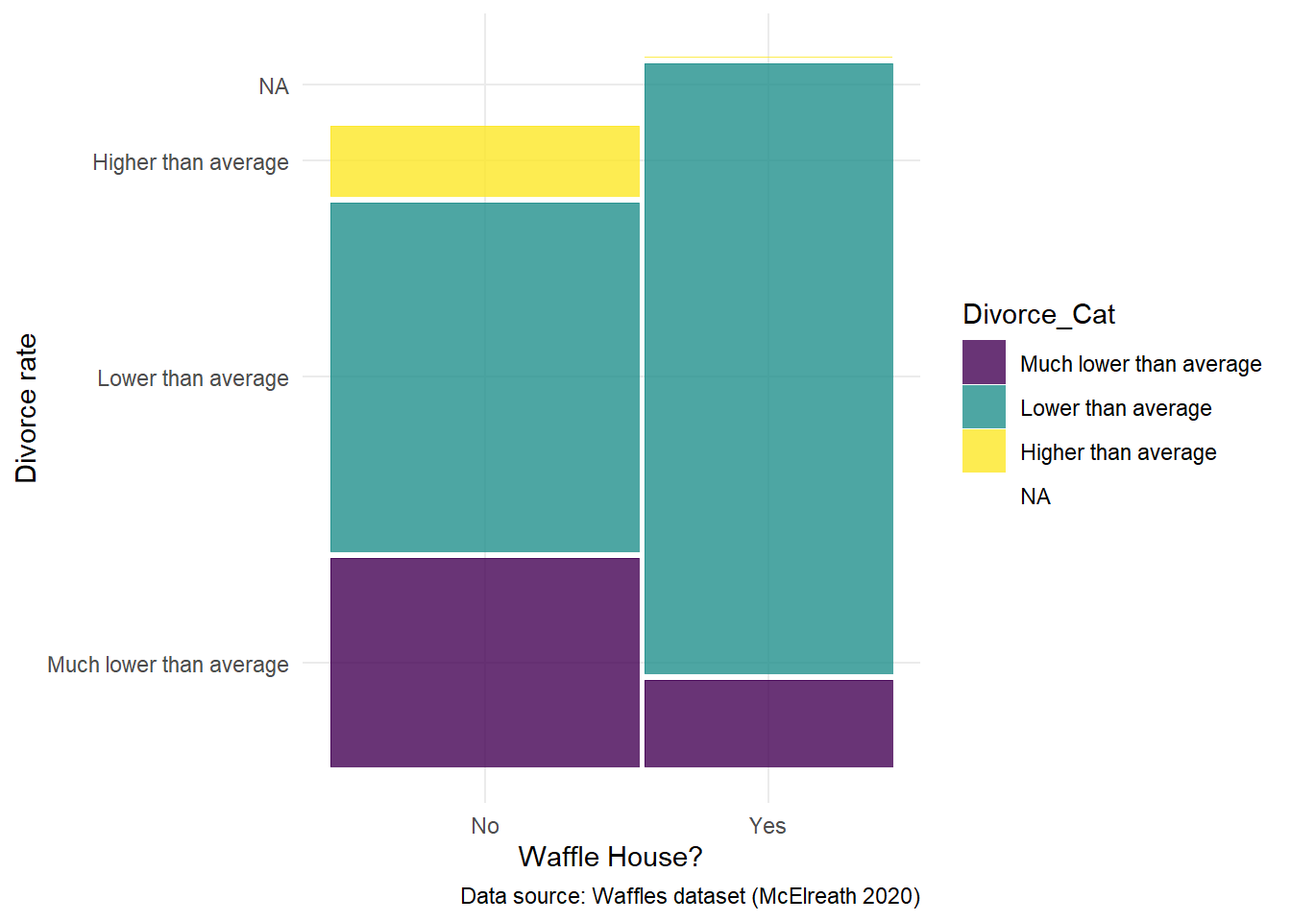
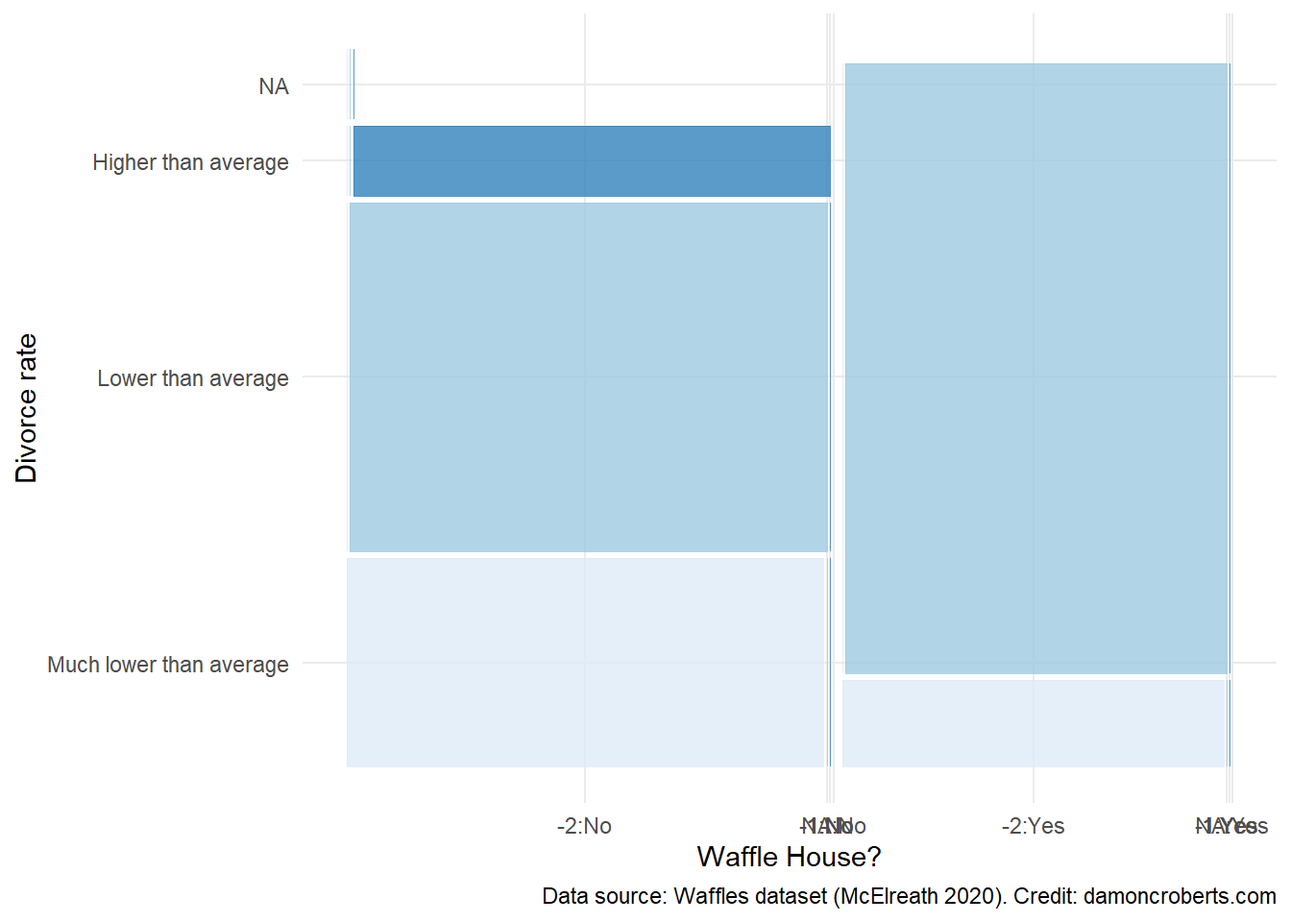
fix some labels

diff --git a/_book/docs/12_bivariate_expectations.html b/_book/docs/12_bivariate_expectations.html
@@ -392,7 +392,7 @@ A[Waffle Houses] --&gt; B[Divorce]
 <div class="sourceCode cell-code" id="cb1"><pre class="sourceCode r code-with-copy"><code class="sourceCode r"><span id="cb1-1"><a href="#cb1-1" aria-hidden="true" tabindex="-1"></a>waffle_cat <span class="sc">%&gt;%</span> <span class="co"># grab the cleaned nes dataset from above</span></span>
 <span id="cb1-2"><a href="#cb1-2" aria-hidden="true" tabindex="-1"></a>    <span class="fu">select</span>( <span class="co"># grab the following columns</span></span>
 <span id="cb1-3"><a href="#cb1-3" aria-hidden="true" tabindex="-1"></a>        WaffleHouses_Binary,</span>
-<span id="cb1-4"><a href="#cb1-4" aria-hidden="true" tabindex="-1"></a>        Divorce</span>
+<span id="cb1-4"><a href="#cb1-4" aria-hidden="true" tabindex="-1"></a>        Divorce_Cat</span>
 <span id="cb1-5"><a href="#cb1-5" aria-hidden="true" tabindex="-1"></a>    ) <span class="sc">%&gt;%</span></span>
 <span id="cb1-6"><a href="#cb1-6" aria-hidden="true" tabindex="-1"></a>    <span class="fu">datasummary_skim</span>(</span>
 <span id="cb1-7"><a href="#cb1-7" aria-hidden="true" tabindex="-1"></a>        <span class="at">data =</span> ., <span class="co"># use the dataset linked with the pipe operators</span></span>
@@ -449,14 +449,14 @@ A[Waffle Houses] --&gt; B[Divorce]
 </td>
   </tr>
   <tr>
-   <td style="text-align:left;"> Divorce </td>
-   <td style="text-align:right;"> 38 </td>
-   <td style="text-align:right;"> 0 </td>
-   <td style="text-align:right;"> 9.7 </td>
-   <td style="text-align:right;"> 1.8 </td>
-   <td style="text-align:right;"> 6.1 </td>
-   <td style="text-align:right;"> 9.8 </td>
-   <td style="text-align:right;"> 13.5 </td>
+   <td style="text-align:left;"> Divorce_Cat </td>
+   <td style="text-align:right;"> 4 </td>
+   <td style="text-align:right;"> 14 </td>
+   <td style="text-align:right;"> -0.3 </td>
+   <td style="text-align:right;"> 1.2 </td>
+   <td style="text-align:right;"> -2.0 </td>
+   <td style="text-align:right;"> -1.0 </td>
+   <td style="text-align:right;"> 1.0 </td>
    <td style="text-align:right;">  <svg xmlns="http://www.w3.org/2000/svg" xlink="http://www.w3.org/1999/xlink" class="svglite" width="48.00pt" height="12.00pt" viewbox="0 0 48.00 12.00"><defs><style type="text/css">
     .svglite line, .svglite polyline, .svglite polygon, .svglite path, .svglite rect, .svglite circle {
       fill: none;
@@ -469,7 +469,7 @@ A[Waffle Houses] --&gt; B[Divorce]
       white-space: pre;
     }
   </style></defs><rect width="100%" height="100%" style="stroke: none; fill: none;"></rect><defs><clippath id="cpMC4wMHw0OC4wMHwwLjAwfDEyLjAw"><rect x="0.00" y="0.00" width="48.00" height="12.00"></rect></clippath></defs><g clip-path="url(#cpMC4wMHw0OC4wMHwwLjAwfDEyLjAw)">
-</g><defs><clippath id="cpMC4wMHw0OC4wMHwyLjg4fDEyLjAw"><rect x="0.00" y="2.88" width="48.00" height="9.12"></rect></clippath></defs><g clip-path="url(#cpMC4wMHw0OC4wMHwyLjg4fDEyLjAw)"><rect x="1.18" y="8.85" width="6.01" height="2.81" style="stroke-width: 0.38; fill: #000000;"></rect><rect x="7.18" y="6.74" width="6.01" height="4.93" style="stroke-width: 0.38; fill: #000000;"></rect><rect x="13.19" y="6.03" width="6.01" height="5.63" style="stroke-width: 0.38; fill: #000000;"></rect><rect x="19.20" y="5.33" width="6.01" height="6.33" style="stroke-width: 0.38; fill: #000000;"></rect><rect x="25.20" y="3.22" width="6.01" height="8.44" style="stroke-width: 0.38; fill: #000000;"></rect><rect x="31.21" y="8.85" width="6.01" height="2.81" style="stroke-width: 0.38; fill: #000000;"></rect><rect x="37.21" y="8.14" width="6.01" height="3.52" style="stroke-width: 0.38; fill: #000000;"></rect><rect x="43.22" y="10.96" width="6.01" height="0.70" style="stroke-width: 0.38; fill: #000000;"></rect></g></svg>
+</g><defs><clippath id="cpMC4wMHw0OC4wMHwyLjg4fDEyLjAw"><rect x="0.00" y="2.88" width="48.00" height="9.12"></rect></clippath></defs><g clip-path="url(#cpMC4wMHw0OC4wMHwyLjg4fDEyLjAw)"><rect x="1.78" y="7.91" width="7.41" height="3.75" style="stroke-width: 0.38; fill: #000000;"></rect><rect x="9.19" y="3.69" width="7.41" height="7.98" style="stroke-width: 0.38; fill: #000000;"></rect><rect x="16.59" y="11.66" width="7.41" height="0.00" style="stroke-width: 0.38; fill: #000000;"></rect><rect x="24.00" y="11.66" width="7.41" height="0.00" style="stroke-width: 0.38; fill: #000000;"></rect><rect x="31.41" y="11.66" width="7.41" height="0.00" style="stroke-width: 0.38; fill: #000000;"></rect><rect x="38.81" y="3.22" width="7.41" height="8.44" style="stroke-width: 0.38; fill: #000000;"></rect></g></svg>
 </td>
   </tr>
 </tbody>
@@ -500,7 +500,7 @@ A[Waffle Houses] --&gt; B[Divorce]
 <span id="cb2-15"><a href="#cb2-15" aria-hidden="true" tabindex="-1"></a>waffle_cat<span class="sc">%&gt;%</span> <span class="co"># grab the waffles dataset</span></span>
 <span id="cb2-16"><a href="#cb2-16" aria-hidden="true" tabindex="-1"></a>    <span class="fu">ggplot</span>() <span class="sc">+</span> <span class="co"># make a plot with these data</span></span>
 <span id="cb2-17"><a href="#cb2-17" aria-hidden="true" tabindex="-1"></a>    <span class="fu">geom_histogram</span>( <span class="co"># specifically a histogram</span></span>
-<span id="cb2-18"><a href="#cb2-18" aria-hidden="true" tabindex="-1"></a>        <span class="fu">aes</span>(<span class="at">x =</span> Divorce), <span class="co"># put this column on the x-axis</span></span>
+<span id="cb2-18"><a href="#cb2-18" aria-hidden="true" tabindex="-1"></a>        <span class="fu">aes</span>(<span class="at">x =</span> Divorce_Cat), <span class="co"># put this column on the x-axis</span></span>
 <span id="cb2-19"><a href="#cb2-19" aria-hidden="true" tabindex="-1"></a>        <span class="at">fill =</span> <span class="st">"grey"</span>, <span class="co"># fill the bars with a grey color </span></span>
 <span id="cb2-20"><a href="#cb2-20" aria-hidden="true" tabindex="-1"></a>        <span class="at">color =</span> <span class="st">"black"</span> <span class="co"># make the lines of the bars black</span></span>
 <span id="cb2-21"><a href="#cb2-21" aria-hidden="true" tabindex="-1"></a>    ) <span class="sc">+</span> </span>
@@ -538,7 +538,7 @@ A[Waffle Houses] --&gt; B[Divorce]
 <div class="cell">
 <div class="sourceCode cell-code" id="cb3"><pre class="sourceCode r code-with-copy"><code class="sourceCode r"><span id="cb3-1"><a href="#cb3-1" aria-hidden="true" tabindex="-1"></a>waffle_cat <span class="sc">%&gt;%</span> <span class="co"># use the waffles_cat dataset...</span></span>
 <span id="cb3-2"><a href="#cb3-2" aria-hidden="true" tabindex="-1"></a>    <span class="fu">datasummary_crosstab</span>( <span class="co"># ... with the dataset, create a crosstab</span></span>
-<span id="cb3-3"><a href="#cb3-3" aria-hidden="true" tabindex="-1"></a>        WaffleHouses_Cat <span class="sc">~</span> Divorce_Cat, <span class="co">#... and use the two cleaned variables</span></span>
+<span id="cb3-3"><a href="#cb3-3" aria-hidden="true" tabindex="-1"></a>        WaffleHouses_Cat <span class="sc">~</span> Divorce_Cat_Labelled, <span class="co">#... and use the two cleaned variables</span></span>
 <span id="cb3-4"><a href="#cb3-4" aria-hidden="true" tabindex="-1"></a>        <span class="at">notes =</span> <span class="st">"Data source: Waffles dataset (McElreath 2020)"</span>, <span class="co"># add notes to table</span></span>
 <span id="cb3-5"><a href="#cb3-5" aria-hidden="true" tabindex="-1"></a>        <span class="at">data =</span> ., <span class="co"># and use the dataset connected by the pipe operator</span></span>
 <span id="cb3-6"><a href="#cb3-6" aria-hidden="true" tabindex="-1"></a>        <span class="at">output =</span> <span class="st">"cleaner_bivariate_crosstab.docx"</span> <span class="co"># store the table in this word document</span></span>
@@ -624,9 +624,9 @@ A[Waffle Houses] --&gt; B[Divorce]
 <span id="cb4-4"><a href="#cb4-4" aria-hidden="true" tabindex="-1"></a>            <span class="fu">aes</span>( <span class="co"># for the axes </span></span>
 <span id="cb4-5"><a href="#cb4-5" aria-hidden="true" tabindex="-1"></a>                <span class="at">x =</span> <span class="fu">product</span>( <span class="co"># on the x axis, plot the combination of the following variables</span></span>
 <span id="cb4-6"><a href="#cb4-6" aria-hidden="true" tabindex="-1"></a>                    WaffleHouses_Cat, </span>
-<span id="cb4-7"><a href="#cb4-7" aria-hidden="true" tabindex="-1"></a>                    Divorce_Cat</span>
+<span id="cb4-7"><a href="#cb4-7" aria-hidden="true" tabindex="-1"></a>                    Divorce_Cat_Labelled</span>
 <span id="cb4-8"><a href="#cb4-8" aria-hidden="true" tabindex="-1"></a>                ),</span>
-<span id="cb4-9"><a href="#cb4-9" aria-hidden="true" tabindex="-1"></a>                <span class="at">fill =</span> Divorce_Cat <span class="co"># fill it with the Divorce_Cat variable</span></span>
+<span id="cb4-9"><a href="#cb4-9" aria-hidden="true" tabindex="-1"></a>                <span class="at">fill =</span> WaffleHouses_Cat <span class="co"># fill it with the Divorce_Cat variable</span></span>
 <span id="cb4-10"><a href="#cb4-10" aria-hidden="true" tabindex="-1"></a>            ),</span>
 <span id="cb4-11"><a href="#cb4-11" aria-hidden="true" tabindex="-1"></a>        ) <span class="sc">+</span> </span>
 <span id="cb4-12"><a href="#cb4-12" aria-hidden="true" tabindex="-1"></a>        <span class="fu">theme_minimal</span>() <span class="sc">+</span> <span class="co"># add this theme</span></span>
@@ -635,8 +635,8 @@ A[Waffle Houses] --&gt; B[Divorce]
 <span id="cb4-15"><a href="#cb4-15" aria-hidden="true" tabindex="-1"></a>            <span class="fu">wes_palette</span>(<span class="st">"Moonrise3"</span>) <span class="co"># add these color palettes</span></span>
 <span id="cb4-16"><a href="#cb4-16" aria-hidden="true" tabindex="-1"></a>            ) <span class="sc">+</span> </span>
 <span id="cb4-17"><a href="#cb4-17" aria-hidden="true" tabindex="-1"></a>        <span class="fu">labs</span>( <span class="co"># adjust the labels to the plot</span></span>
-<span id="cb4-18"><a href="#cb4-18" aria-hidden="true" tabindex="-1"></a>            <span class="at">x =</span> <span class="st">"Waffle House?"</span>, <span class="co"># x-axis label</span></span>
-<span id="cb4-19"><a href="#cb4-19" aria-hidden="true" tabindex="-1"></a>            <span class="at">y =</span> <span class="st">"Divorce rate"</span>, <span class="co"># y-axis label</span></span>
+<span id="cb4-18"><a href="#cb4-18" aria-hidden="true" tabindex="-1"></a>            <span class="at">x =</span> <span class="st">"Divorce Rate"</span>, <span class="co"># x-axis label</span></span>
+<span id="cb4-19"><a href="#cb4-19" aria-hidden="true" tabindex="-1"></a>            <span class="at">y =</span> <span class="st">"Waffle House?"</span>, <span class="co"># y-axis label</span></span>
 <span id="cb4-20"><a href="#cb4-20" aria-hidden="true" tabindex="-1"></a>            <span class="at">caption =</span> <span class="st">"Data source: Waffles dataset (McElreath 2020)"</span> <span class="co"># caption</span></span>
 <span id="cb4-21"><a href="#cb4-21" aria-hidden="true" tabindex="-1"></a>        )</span></code><button title="Copy to Clipboard" class="code-copy-button"><i class="bi"></i></button></pre></div>
 </div>
@@ -678,7 +678,7 @@ C --&gt; B
 <span id="cb5-2"><a href="#cb5-2" aria-hidden="true" tabindex="-1"></a>    <span class="fu">select</span>( <span class="co"># grab the following columns</span></span>
 <span id="cb5-3"><a href="#cb5-3" aria-hidden="true" tabindex="-1"></a>        WaffleHouses_Binary,</span>
 <span id="cb5-4"><a href="#cb5-4" aria-hidden="true" tabindex="-1"></a>        Age_Cat,</span>
-<span id="cb5-5"><a href="#cb5-5" aria-hidden="true" tabindex="-1"></a>        Divorce,</span>
+<span id="cb5-5"><a href="#cb5-5" aria-hidden="true" tabindex="-1"></a>        Divorce_Cat,</span>
 <span id="cb5-6"><a href="#cb5-6" aria-hidden="true" tabindex="-1"></a>    ) <span class="sc">%&gt;%</span></span>
 <span id="cb5-7"><a href="#cb5-7" aria-hidden="true" tabindex="-1"></a>    <span class="fu">datasummary_skim</span>(</span>
 <span id="cb5-8"><a href="#cb5-8" aria-hidden="true" tabindex="-1"></a>        <span class="at">data =</span> ., <span class="co"># use the dataset linked with the pipe operators</span></span>
@@ -735,14 +735,14 @@ C --&gt; B
 </td>
   </tr>
   <tr>
-   <td style="text-align:left;"> Age </td>
+   <td style="text-align:left;"> Divorce_Cat </td>
    <td style="text-align:right;"> 4 </td>
-   <td style="text-align:right;"> 0 </td>
-   <td style="text-align:right;"> 4.5 </td>
-   <td style="text-align:right;"> 0.7 </td>
-   <td style="text-align:right;"> 3.0 </td>
-   <td style="text-align:right;"> 4.0 </td>
-   <td style="text-align:right;"> 6.0 </td>
+   <td style="text-align:right;"> 14 </td>
+   <td style="text-align:right;"> -0.3 </td>
+   <td style="text-align:right;"> 1.2 </td>
+   <td style="text-align:right;"> -2.0 </td>
+   <td style="text-align:right;"> -1.0 </td>
+   <td style="text-align:right;"> 1.0 </td>
    <td style="text-align:right;">  <svg xmlns="http://www.w3.org/2000/svg" xlink="http://www.w3.org/1999/xlink" class="svglite" width="48.00pt" height="12.00pt" viewbox="0 0 48.00 12.00"><defs><style type="text/css">
     .svglite line, .svglite polyline, .svglite polygon, .svglite path, .svglite rect, .svglite circle {
       fill: none;
@@ -755,31 +755,7 @@ C --&gt; B
       white-space: pre;
     }
   </style></defs><rect width="100%" height="100%" style="stroke: none; fill: none;"></rect><defs><clippath id="cpMC4wMHw0OC4wMHwwLjAwfDEyLjAw"><rect x="0.00" y="0.00" width="48.00" height="12.00"></rect></clippath></defs><g clip-path="url(#cpMC4wMHw0OC4wMHwwLjAwfDEyLjAw)">
-</g><defs><clippath id="cpMC4wMHw0OC4wMHwyLjg4fDEyLjAw"><rect x="0.00" y="2.88" width="48.00" height="9.12"></rect></clippath></defs><g clip-path="url(#cpMC4wMHw0OC4wMHwyLjg4fDEyLjAw)"><rect x="1.78" y="11.01" width="7.41" height="0.65" style="stroke-width: 0.38; fill: #000000;"></rect><rect x="9.19" y="3.22" width="7.41" height="8.44" style="stroke-width: 0.38; fill: #000000;"></rect><rect x="16.59" y="11.66" width="7.41" height="0.00" style="stroke-width: 0.38; fill: #000000;"></rect><rect x="24.00" y="5.82" width="7.41" height="5.85" style="stroke-width: 0.38; fill: #000000;"></rect><rect x="31.41" y="11.66" width="7.41" height="0.00" style="stroke-width: 0.38; fill: #000000;"></rect><rect x="38.81" y="10.36" width="7.41" height="1.30" style="stroke-width: 0.38; fill: #000000;"></rect></g></svg>
-</td>
-  </tr>
-  <tr>
-   <td style="text-align:left;"> Divorce </td>
-   <td style="text-align:right;"> 38 </td>
-   <td style="text-align:right;"> 0 </td>
-   <td style="text-align:right;"> 9.7 </td>
-   <td style="text-align:right;"> 1.8 </td>
-   <td style="text-align:right;"> 6.1 </td>
-   <td style="text-align:right;"> 9.8 </td>
-   <td style="text-align:right;"> 13.5 </td>
-   <td style="text-align:right;">  <svg xmlns="http://www.w3.org/2000/svg" xlink="http://www.w3.org/1999/xlink" class="svglite" width="48.00pt" height="12.00pt" viewbox="0 0 48.00 12.00"><defs><style type="text/css">
-    .svglite line, .svglite polyline, .svglite polygon, .svglite path, .svglite rect, .svglite circle {
-      fill: none;
-      stroke: #000000;
-      stroke-linecap: round;
-      stroke-linejoin: round;
-      stroke-miterlimit: 10.00;
-    }
-    .svglite text {
-      white-space: pre;
-    }
-  </style></defs><rect width="100%" height="100%" style="stroke: none; fill: none;"></rect><defs><clippath id="cpMC4wMHw0OC4wMHwwLjAwfDEyLjAw"><rect x="0.00" y="0.00" width="48.00" height="12.00"></rect></clippath></defs><g clip-path="url(#cpMC4wMHw0OC4wMHwwLjAwfDEyLjAw)">
-</g><defs><clippath id="cpMC4wMHw0OC4wMHwyLjg4fDEyLjAw"><rect x="0.00" y="2.88" width="48.00" height="9.12"></rect></clippath></defs><g clip-path="url(#cpMC4wMHw0OC4wMHwyLjg4fDEyLjAw)"><rect x="1.18" y="8.85" width="6.01" height="2.81" style="stroke-width: 0.38; fill: #000000;"></rect><rect x="7.18" y="6.74" width="6.01" height="4.93" style="stroke-width: 0.38; fill: #000000;"></rect><rect x="13.19" y="6.03" width="6.01" height="5.63" style="stroke-width: 0.38; fill: #000000;"></rect><rect x="19.20" y="5.33" width="6.01" height="6.33" style="stroke-width: 0.38; fill: #000000;"></rect><rect x="25.20" y="3.22" width="6.01" height="8.44" style="stroke-width: 0.38; fill: #000000;"></rect><rect x="31.21" y="8.85" width="6.01" height="2.81" style="stroke-width: 0.38; fill: #000000;"></rect><rect x="37.21" y="8.14" width="6.01" height="3.52" style="stroke-width: 0.38; fill: #000000;"></rect><rect x="43.22" y="10.96" width="6.01" height="0.70" style="stroke-width: 0.38; fill: #000000;"></rect></g></svg>
+</g><defs><clippath id="cpMC4wMHw0OC4wMHwyLjg4fDEyLjAw"><rect x="0.00" y="2.88" width="48.00" height="9.12"></rect></clippath></defs><g clip-path="url(#cpMC4wMHw0OC4wMHwyLjg4fDEyLjAw)"><rect x="1.78" y="7.91" width="7.41" height="3.75" style="stroke-width: 0.38; fill: #000000;"></rect><rect x="9.19" y="3.69" width="7.41" height="7.98" style="stroke-width: 0.38; fill: #000000;"></rect><rect x="16.59" y="11.66" width="7.41" height="0.00" style="stroke-width: 0.38; fill: #000000;"></rect><rect x="24.00" y="11.66" width="7.41" height="0.00" style="stroke-width: 0.38; fill: #000000;"></rect><rect x="31.41" y="11.66" width="7.41" height="0.00" style="stroke-width: 0.38; fill: #000000;"></rect><rect x="38.81" y="3.22" width="7.41" height="8.44" style="stroke-width: 0.38; fill: #000000;"></rect></g></svg>
 </td>
   </tr>
 </tbody>
@@ -824,7 +800,7 @@ C --&gt; B
 <span id="cb6-29"><a href="#cb6-29" aria-hidden="true" tabindex="-1"></a>waffle_cat<span class="sc">%&gt;%</span> <span class="co"># grab the waffles dataset</span></span>
 <span id="cb6-30"><a href="#cb6-30" aria-hidden="true" tabindex="-1"></a>    <span class="fu">ggplot</span>() <span class="sc">+</span> <span class="co"># make a plot with these data</span></span>
 <span id="cb6-31"><a href="#cb6-31" aria-hidden="true" tabindex="-1"></a>    <span class="fu">geom_histogram</span>( <span class="co"># specifically a histogram</span></span>
-<span id="cb6-32"><a href="#cb6-32" aria-hidden="true" tabindex="-1"></a>        <span class="fu">aes</span>(<span class="at">x =</span> Divorce_Cat), <span class="co"># put this column on the x-axis</span></span>
+<span id="cb6-32"><a href="#cb6-32" aria-hidden="true" tabindex="-1"></a>        <span class="fu">aes</span>(<span class="at">x =</span> Divorce_Cat_Labelled), <span class="co"># put this column on the x-axis</span></span>
 <span id="cb6-33"><a href="#cb6-33" aria-hidden="true" tabindex="-1"></a>        <span class="at">fill =</span> <span class="st">"grey"</span>, <span class="co"># fill the bars with a grey color </span></span>
 <span id="cb6-34"><a href="#cb6-34" aria-hidden="true" tabindex="-1"></a>        <span class="at">color =</span> <span class="st">"black"</span> <span class="co"># make the lines of the bars black</span></span>
 <span id="cb6-35"><a href="#cb6-35" aria-hidden="true" tabindex="-1"></a>    ) <span class="sc">+</span> </span>
@@ -875,15 +851,15 @@ C --&gt; B
 <span id="cb7-4"><a href="#cb7-4" aria-hidden="true" tabindex="-1"></a>        <span class="fu">geom_mosaic</span>( <span class="co"># specifically a mosaic plot</span></span>
 <span id="cb7-5"><a href="#cb7-5" aria-hidden="true" tabindex="-1"></a>            <span class="fu">aes</span>( <span class="co"># for the axes </span></span>
 <span id="cb7-6"><a href="#cb7-6" aria-hidden="true" tabindex="-1"></a>                <span class="at">x =</span> <span class="fu">product</span>( <span class="co"># on the x axis, plot the combination of the following variables</span></span>
-<span id="cb7-7"><a href="#cb7-7" aria-hidden="true" tabindex="-1"></a>                    Divorce_Cat, </span>
+<span id="cb7-7"><a href="#cb7-7" aria-hidden="true" tabindex="-1"></a>                    Divorce_Cat_Labelled, </span>
 <span id="cb7-8"><a href="#cb7-8" aria-hidden="true" tabindex="-1"></a>                    WaffleHouses_Cat</span>
 <span id="cb7-9"><a href="#cb7-9" aria-hidden="true" tabindex="-1"></a>                ),</span>
-<span id="cb7-10"><a href="#cb7-10" aria-hidden="true" tabindex="-1"></a>                <span class="at">fill =</span> Divorce_Cat <span class="co"># fill it with the Divorce_Cat variable</span></span>
+<span id="cb7-10"><a href="#cb7-10" aria-hidden="true" tabindex="-1"></a>                <span class="at">fill =</span> Divorce_Cat_Labelled <span class="co"># fill it with the Divorce_Cat variable</span></span>
 <span id="cb7-11"><a href="#cb7-11" aria-hidden="true" tabindex="-1"></a>            ),</span>
 <span id="cb7-12"><a href="#cb7-12" aria-hidden="true" tabindex="-1"></a>        ) <span class="sc">+</span> </span>
 <span id="cb7-13"><a href="#cb7-13" aria-hidden="true" tabindex="-1"></a>        <span class="fu">theme_minimal</span>() <span class="sc">+</span> <span class="co"># add this theme</span></span>
-<span id="cb7-14"><a href="#cb7-14" aria-hidden="true" tabindex="-1"></a>        <span class="fu">scale_color_brewer</span>(</span>
-<span id="cb7-15"><a href="#cb7-15" aria-hidden="true" tabindex="-1"></a>            <span class="at">name =</span> <span class="st">"Age"</span>, <span class="co"># make this the legend title</span></span>
+<span id="cb7-14"><a href="#cb7-14" aria-hidden="true" tabindex="-1"></a>        <span class="fu">scale_fill_brewer</span>(</span>
+<span id="cb7-15"><a href="#cb7-15" aria-hidden="true" tabindex="-1"></a>            <span class="at">name =</span> <span class="st">"Divorce rate"</span>, <span class="co"># make this the legend title</span></span>
 <span id="cb7-16"><a href="#cb7-16" aria-hidden="true" tabindex="-1"></a>            <span class="fu">wes_palette</span>(<span class="st">"Moonrise3"</span>) <span class="co"># add these color palettes</span></span>
 <span id="cb7-17"><a href="#cb7-17" aria-hidden="true" tabindex="-1"></a>            ) <span class="sc">+</span> </span>
 <span id="cb7-18"><a href="#cb7-18" aria-hidden="true" tabindex="-1"></a>        <span class="fu">labs</span>( <span class="co"># adjust the labels to the plot</span></span>
@@ -898,15 +874,15 @@ C --&gt; B
 <span id="cb7-27"><a href="#cb7-27" aria-hidden="true" tabindex="-1"></a>        <span class="fu">geom_mosaic</span>( <span class="co"># specifically a mosaic plot</span></span>
 <span id="cb7-28"><a href="#cb7-28" aria-hidden="true" tabindex="-1"></a>            <span class="fu">aes</span>( <span class="co"># for the axes </span></span>
 <span id="cb7-29"><a href="#cb7-29" aria-hidden="true" tabindex="-1"></a>                <span class="at">x =</span> <span class="fu">product</span>( <span class="co"># on the x axis, plot the combination of the following variables</span></span>
-<span id="cb7-30"><a href="#cb7-30" aria-hidden="true" tabindex="-1"></a>                    Divorce_Cat, </span>
+<span id="cb7-30"><a href="#cb7-30" aria-hidden="true" tabindex="-1"></a>                    Divorce_Cat_Labelled, </span>
 <span id="cb7-31"><a href="#cb7-31" aria-hidden="true" tabindex="-1"></a>                    WaffleHouses_Cat</span>
 <span id="cb7-32"><a href="#cb7-32" aria-hidden="true" tabindex="-1"></a>                ),</span>
-<span id="cb7-33"><a href="#cb7-33" aria-hidden="true" tabindex="-1"></a>                <span class="at">fill =</span> Divorce_Cat <span class="co"># fill it with the Divorce_Cat variable</span></span>
+<span id="cb7-33"><a href="#cb7-33" aria-hidden="true" tabindex="-1"></a>                <span class="at">fill =</span> Divorce_Cat_Labelled <span class="co"># fill it with the Divorce_Cat variable</span></span>
 <span id="cb7-34"><a href="#cb7-34" aria-hidden="true" tabindex="-1"></a>            ),</span>
 <span id="cb7-35"><a href="#cb7-35" aria-hidden="true" tabindex="-1"></a>        ) <span class="sc">+</span> </span>
 <span id="cb7-36"><a href="#cb7-36" aria-hidden="true" tabindex="-1"></a>        <span class="fu">theme_minimal</span>() <span class="sc">+</span> <span class="co"># add this theme</span></span>
-<span id="cb7-37"><a href="#cb7-37" aria-hidden="true" tabindex="-1"></a>        <span class="fu">scale_color_brewer</span>(</span>
-<span id="cb7-38"><a href="#cb7-38" aria-hidden="true" tabindex="-1"></a>            <span class="at">name =</span> <span class="st">"Age"</span>, <span class="co"># make this the legend title</span></span>
+<span id="cb7-37"><a href="#cb7-37" aria-hidden="true" tabindex="-1"></a>        <span class="fu">scale_fill_brewer</span>(</span>
+<span id="cb7-38"><a href="#cb7-38" aria-hidden="true" tabindex="-1"></a>            <span class="at">name =</span> <span class="st">"Divorce rate"</span>, <span class="co"># make this the legend title</span></span>
 <span id="cb7-39"><a href="#cb7-39" aria-hidden="true" tabindex="-1"></a>            <span class="fu">wes_palette</span>(<span class="st">"Moonrise3"</span>) <span class="co"># add these color palettes</span></span>
 <span id="cb7-40"><a href="#cb7-40" aria-hidden="true" tabindex="-1"></a>            ) <span class="sc">+</span> </span>
 <span id="cb7-41"><a href="#cb7-41" aria-hidden="true" tabindex="-1"></a>        <span class="fu">labs</span>( <span class="co"># adjust the labels to the plot</span></span>
@@ -921,15 +897,15 @@ C --&gt; B
 <span id="cb7-50"><a href="#cb7-50" aria-hidden="true" tabindex="-1"></a>        <span class="fu">geom_mosaic</span>( <span class="co"># specifically a mosaic plot</span></span>
 <span id="cb7-51"><a href="#cb7-51" aria-hidden="true" tabindex="-1"></a>            <span class="fu">aes</span>( <span class="co"># for the axes </span></span>
 <span id="cb7-52"><a href="#cb7-52" aria-hidden="true" tabindex="-1"></a>                <span class="at">x =</span> <span class="fu">product</span>( <span class="co"># on the x axis, plot the combination of the following variables</span></span>
-<span id="cb7-53"><a href="#cb7-53" aria-hidden="true" tabindex="-1"></a>                    Divorce_Cat, </span>
+<span id="cb7-53"><a href="#cb7-53" aria-hidden="true" tabindex="-1"></a>                    Divorce_Cat_Labelled, </span>
 <span id="cb7-54"><a href="#cb7-54" aria-hidden="true" tabindex="-1"></a>                    WaffleHouses_Cat</span>
 <span id="cb7-55"><a href="#cb7-55" aria-hidden="true" tabindex="-1"></a>                ),</span>
 <span id="cb7-56"><a href="#cb7-56" aria-hidden="true" tabindex="-1"></a>                <span class="at">fill =</span> Divorce_Cat <span class="co"># fill it with the Divorce_Cat variable</span></span>
 <span id="cb7-57"><a href="#cb7-57" aria-hidden="true" tabindex="-1"></a>            ),</span>
 <span id="cb7-58"><a href="#cb7-58" aria-hidden="true" tabindex="-1"></a>        ) <span class="sc">+</span> </span>
 <span id="cb7-59"><a href="#cb7-59" aria-hidden="true" tabindex="-1"></a>        <span class="fu">theme_minimal</span>() <span class="sc">+</span> <span class="co"># add this theme</span></span>
-<span id="cb7-60"><a href="#cb7-60" aria-hidden="true" tabindex="-1"></a>        <span class="fu">scale_color_brewer</span>(</span>
-<span id="cb7-61"><a href="#cb7-61" aria-hidden="true" tabindex="-1"></a>            <span class="at">name =</span> <span class="st">"Age"</span>, <span class="co"># make this the legend title</span></span>
+<span id="cb7-60"><a href="#cb7-60" aria-hidden="true" tabindex="-1"></a>        <span class="fu">scale_fill_brewer</span>(</span>
+<span id="cb7-61"><a href="#cb7-61" aria-hidden="true" tabindex="-1"></a>            <span class="at">name =</span> <span class="st">"Divorce rate"</span>, <span class="co"># make this the legend title</span></span>
 <span id="cb7-62"><a href="#cb7-62" aria-hidden="true" tabindex="-1"></a>            <span class="fu">wes_palette</span>(<span class="st">"Moonrise3"</span>) <span class="co"># add these color palettes</span></span>
 <span id="cb7-63"><a href="#cb7-63" aria-hidden="true" tabindex="-1"></a>            ) <span class="sc">+</span> </span>
 <span id="cb7-64"><a href="#cb7-64" aria-hidden="true" tabindex="-1"></a>        <span class="fu">labs</span>( <span class="co"># adjust the labels to the plot</span></span>
@@ -944,15 +920,15 @@ C --&gt; B
 <span id="cb7-73"><a href="#cb7-73" aria-hidden="true" tabindex="-1"></a>        <span class="fu">geom_mosaic</span>( <span class="co"># specifically a mosaic plot</span></span>
 <span id="cb7-74"><a href="#cb7-74" aria-hidden="true" tabindex="-1"></a>            <span class="fu">aes</span>( <span class="co"># for the axes </span></span>
 <span id="cb7-75"><a href="#cb7-75" aria-hidden="true" tabindex="-1"></a>                <span class="at">x =</span> <span class="fu">product</span>( <span class="co"># on the x axis, plot the combination of the following variables</span></span>
-<span id="cb7-76"><a href="#cb7-76" aria-hidden="true" tabindex="-1"></a>                    Divorce_Cat, </span>
+<span id="cb7-76"><a href="#cb7-76" aria-hidden="true" tabindex="-1"></a>                    Divorce_Cat_Labelled, </span>
 <span id="cb7-77"><a href="#cb7-77" aria-hidden="true" tabindex="-1"></a>                    WaffleHouses_Cat</span>
 <span id="cb7-78"><a href="#cb7-78" aria-hidden="true" tabindex="-1"></a>                ),</span>
 <span id="cb7-79"><a href="#cb7-79" aria-hidden="true" tabindex="-1"></a>                <span class="at">fill =</span> Divorce_Cat <span class="co"># fill it with the Divorce_Cat variable</span></span>
 <span id="cb7-80"><a href="#cb7-80" aria-hidden="true" tabindex="-1"></a>            ),</span>
 <span id="cb7-81"><a href="#cb7-81" aria-hidden="true" tabindex="-1"></a>        ) <span class="sc">+</span> </span>
 <span id="cb7-82"><a href="#cb7-82" aria-hidden="true" tabindex="-1"></a>        <span class="fu">theme_minimal</span>() <span class="sc">+</span> <span class="co"># add this theme</span></span>
-<span id="cb7-83"><a href="#cb7-83" aria-hidden="true" tabindex="-1"></a>        <span class="fu">scale_color_brewer</span>(</span>
-<span id="cb7-84"><a href="#cb7-84" aria-hidden="true" tabindex="-1"></a>            <span class="at">name =</span> <span class="st">"Age"</span>, <span class="co"># make this the legend title</span></span>
+<span id="cb7-83"><a href="#cb7-83" aria-hidden="true" tabindex="-1"></a>        <span class="fu">scale_fill_brewer</span>(</span>
+<span id="cb7-84"><a href="#cb7-84" aria-hidden="true" tabindex="-1"></a>            <span class="at">name =</span> <span class="st">"Divorce rate"</span>, <span class="co"># make this the legend title</span></span>
 <span id="cb7-85"><a href="#cb7-85" aria-hidden="true" tabindex="-1"></a>            <span class="fu">wes_palette</span>(<span class="st">"Moonrise3"</span>) <span class="co"># add these color palettes</span></span>
 <span id="cb7-86"><a href="#cb7-86" aria-hidden="true" tabindex="-1"></a>            ) <span class="sc">+</span> </span>
 <span id="cb7-87"><a href="#cb7-87" aria-hidden="true" tabindex="-1"></a>        <span class="fu">labs</span>( <span class="co"># adjust the labels to the plot</span></span>

diff --git a/_book/index.html b/_book/index.html
@@ -7,7 +7,7 @@
 <meta name="viewport" content="width=device-width, initial-scale=1.0, user-scalable=yes">
 
 <meta name="author" content="Damon C. Roberts">
-<meta name="dcterms.date" content="2023-02-22">
+<meta name="dcterms.date" content="2023-02-23">
 
 <title>PSCI 2075 Recitation Handout</title>
 <style>
@@ -221,7 +221,7 @@ gtag('config', 'G-8Z2BLG3VEE', { 'anonymize_ip': true});
     <div>
     <div class="quarto-title-meta-heading">Published</div>
     <div class="quarto-title-meta-contents">
-      <p class="date">February 22, 2023</p>
+      <p class="date">February 23, 2023</p>
     </div>
   </div>
   
